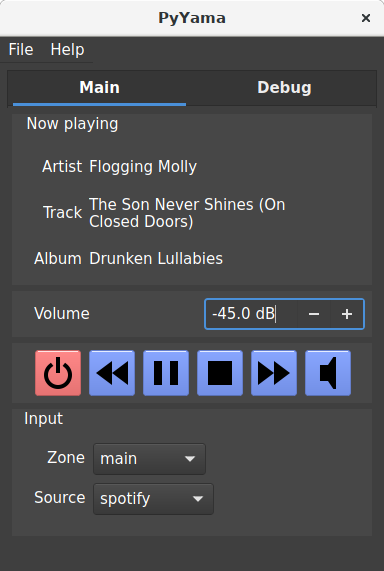
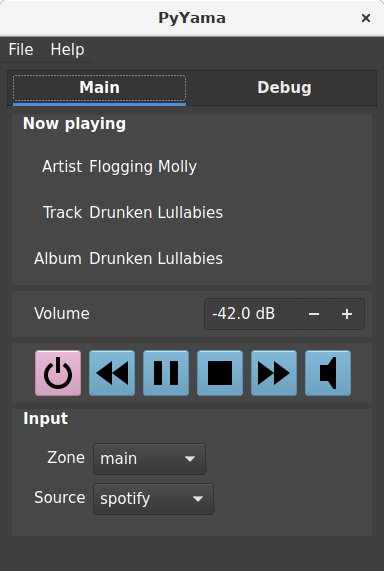
Some small changes.

Changed region(s): [[0.0625, 0.5061, 0.9688, 0.7443], [0.2188, 0.3275, 0.75, 0.4168], [0.0625, 0.1786, 0.3438, 0.2382]]

diff --git a/index.html b/index.html
@@ -1,6 +1,6 @@
 <!DOCTYPE html>
 <head>
-    <meta charset="UTF-8">
+    <meta charset="UTF-8" />
     <title>PyYama</title>
     <style>
     body {
@@ -30,6 +30,7 @@
         padding-left: 2px;
         padding-top: 0px;
         padding-right: 6px;
+        color: #7ab3d5ff;
     }
     a {
         color: rgb(127, 159, 255);
@@ -62,6 +63,14 @@
     table tr:nth-child(even) {
         background-color: #222;
     }
+    table tr:nth-child(even) td {
+        color: #7ab3d5ff;
+    }
+    
+    table tr:nth-child(odd) td {
+        color: #e8b3d5ff;
+    }
+
     table tr:nth-child(odd) {
         background-color: #111;
     }
@@ -71,8 +80,8 @@
 <section>
 <div style="overflow: auto;">
     <img src="icons128/pyyama.png" width="128" height="128" alt="PyYama icon" style="float: right;" />
-    <h1>PyYama</h1>
-    <h2 style="clear: right;">The replacement for the Web UI in certain streaming music players</h2>
+    <h1><span style="color: #7ab3d5ff">Py<span style="color: #e8b3d5ff">Yama</span></h1>
+    <h2 style="clear: right;">The replacement for the Web UI in multi-room audio devices</h2>
 </div>
 <div class="image" style="float: right;">
     <img src="ss.png" alt="Screenshot." width="384" height="571"/>
@@ -88,9 +97,9 @@
     </p>
     
     <p class="fancy">The application is developed by Jaakko Julin and is released under the 
-    <a href="https://www.gnu.org/licenses/old-licenses/gpl-2.0.en.html">GPL licence</a>.
-    There is no warranty. See file LICENSE bundled with the software.
-    Some icons are from the <a href="https://useiconic.com/open">Open Iconic</a> collection, available under MIT license.</p>
+    <a href="https://www.gnu.org/licenses/old-licenses/gpl-2.0.en.html">GNU General Public License (GPL)</a>, version 2 or any later version.
+    There is no warranty. See file <a href="LICENSE">LICENSE</a> bundled with the software.
+    Some icons are from the <a href="https://useiconic.com/open">Open Iconic</a> collection, available under <a href="https://github.com/iconic/open-iconic/blob/master/ICON-LICENSE">MIT license</a>.</p>
     
     <p class="fancy">The primary advantages of using PyYama are:</p>
     

diff --git a/pyyama.py b/pyyama.py
@@ -186,7 +186,7 @@ class PyYamaMainWindow(QtWidgets.QMainWindow):
         else:
             power = self.status['power']
         if power:
-            self.ui.powerToolButton.setStyleSheet("background-color: rgb(255, 127, 127)")
+            self.ui.powerToolButton.setStyleSheet("background-color: rgb(232, 179, 213)")
             self.ui.previousToolButton.setEnabled(True)
             self.ui.nextToolButton.setEnabled(True)
             self.ui.playPauseToolButton.setEnabled(True)
@@ -195,7 +195,7 @@ class PyYamaMainWindow(QtWidgets.QMainWindow):
             self.ui.inputComboBox.setEnabled(True)
             self.ui.volumeSpinBox.setEnabled(True)
         else:
-            self.ui.powerToolButton.setStyleSheet("background-color: rgb(127, 255, 127)")
+            self.ui.powerToolButton.setStyleSheet("background-color: rgb(122, 213, 179)")
             self.ui.previousToolButton.setEnabled(False)
             self.ui.nextToolButton.setEnabled(False)
             self.ui.playPauseToolButton.setEnabled(False)
@@ -342,6 +342,6 @@ if __name__ == '__main__':
     host = ''
     if len(sys.argv) > 1:
         host = sys.argv[1]
-    w = PyYamaMainWindow(HOST)
+    w = PyYamaMainWindow(host)
     w.show()
     sys.exit(app.exec_())
